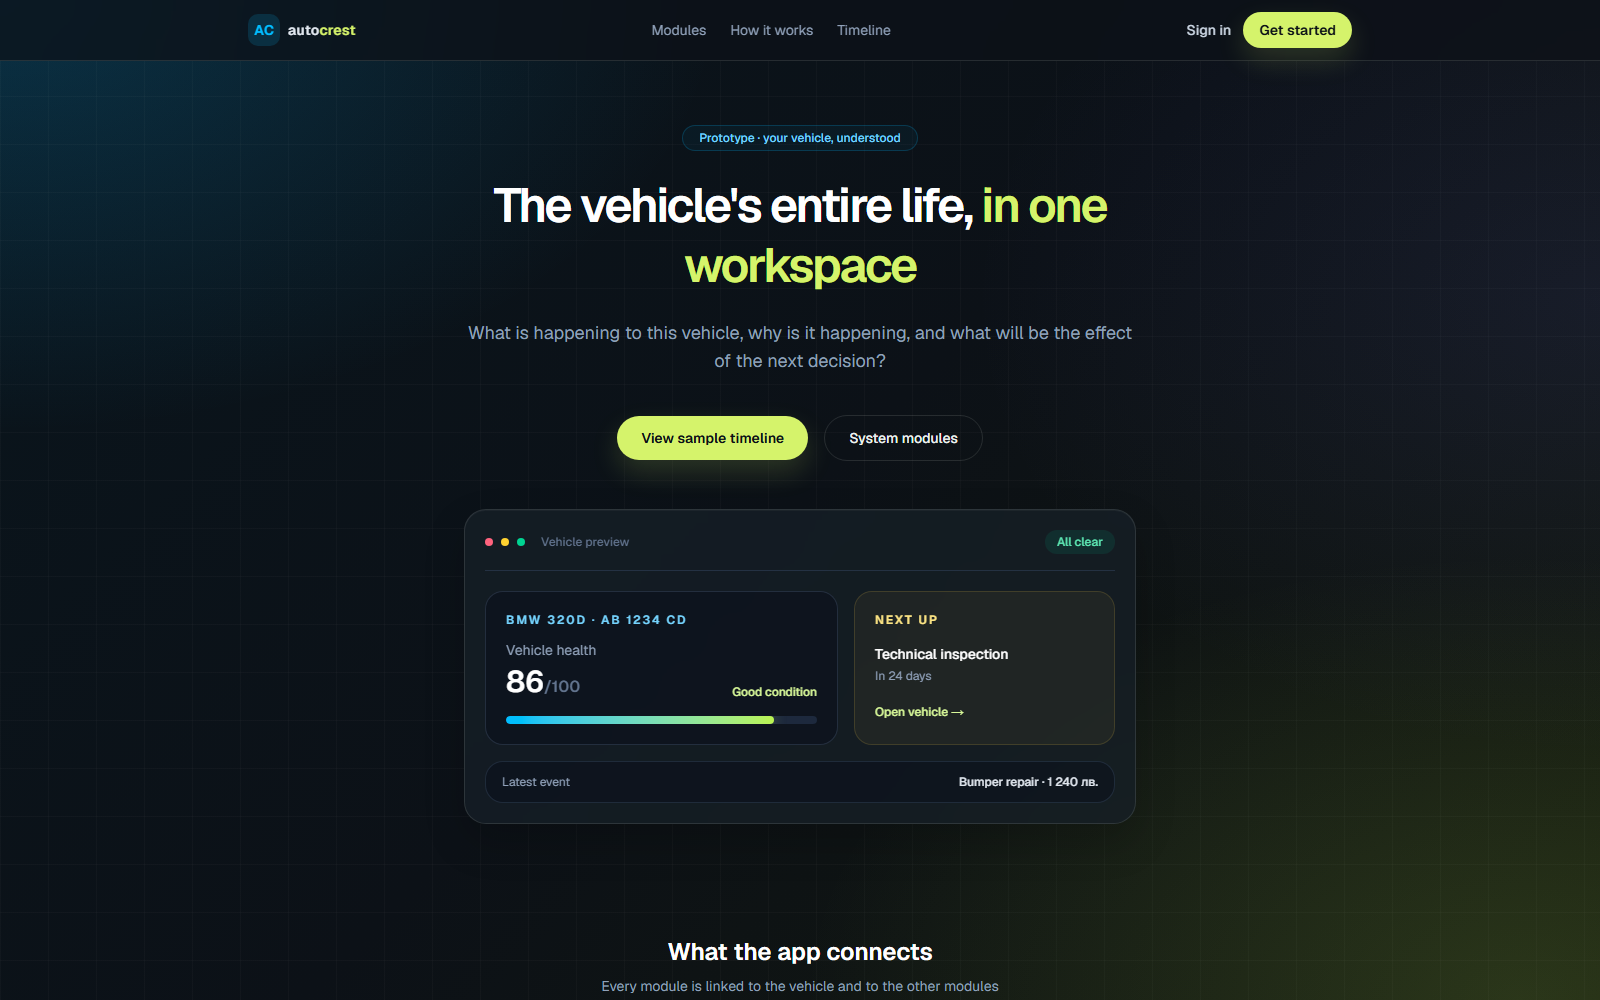
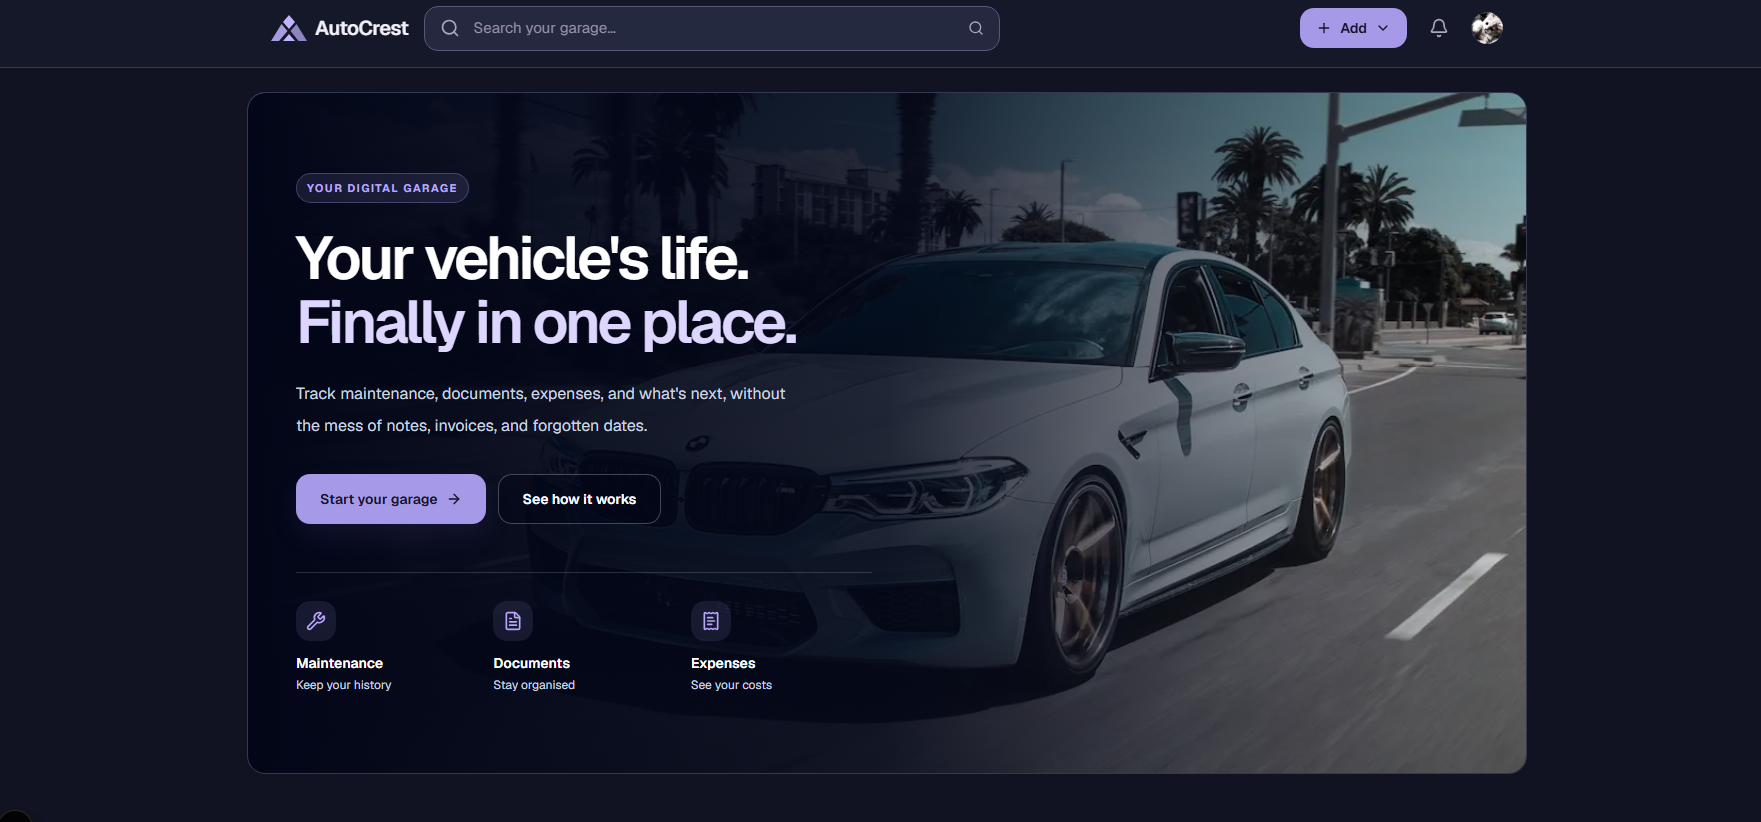
Expand AutoCrest project gallery
Added new AutoCrest screenshots for the profile, add-vehicle, and garage workflows, and refreshed the existing hero, login, and register visuals. This updates the project showcase to better reflect the full product experience and user journey.

diff --git a/app/page.tsx b/app/page.tsx
@@ -59,6 +59,9 @@ const projects = [
       { src: "/projects/autocrest-home.png", alt: "AutoCrest product landing page" },
       { src: "/projects/autocrest-login.png", alt: "AutoCrest login page" },
       { src: "/projects/autocrest-register.png", alt: "AutoCrest registration page" },
+      { src: "/projects/autocrest-profile.png", alt: "AutoCrest profile details and account settings" },
+      { src: "/projects/autocrest-add-vehicle.png", alt: "AutoCrest add vehicle form with registration document scanning" },
+      { src: "/projects/autocrest-garage.png", alt: "AutoCrest garage and vehicle organiser" },
     ],
     architecture: "Next.js App Router with Server Components for data-heavy views and focused Client Components for interactive workflows.",
     deployment: "Vercel · Supabase planned for Auth, PostgreSQL and Storage",
